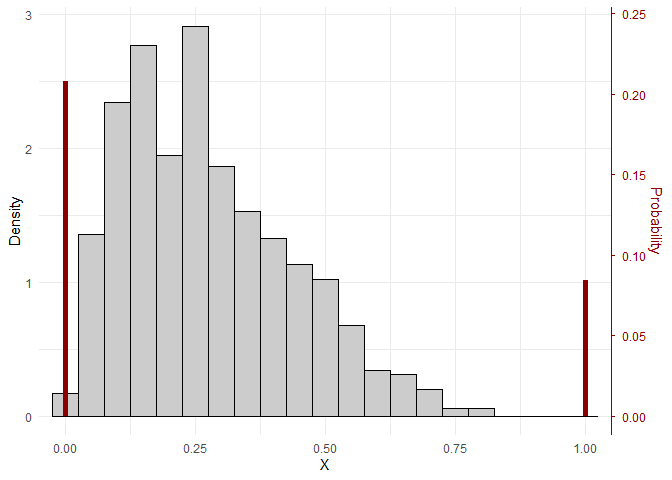
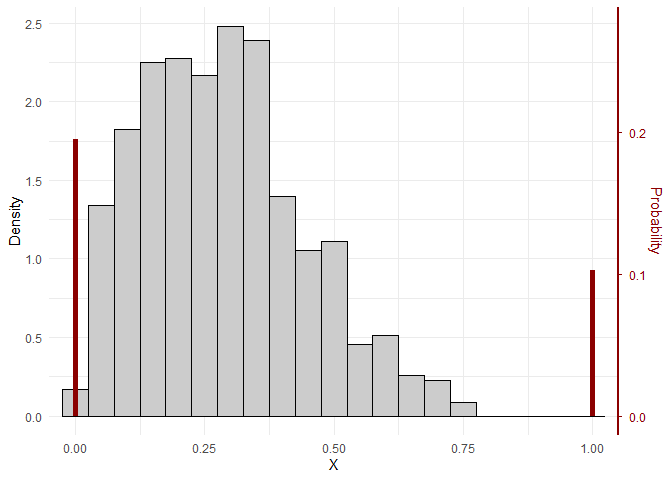
fix density values in graph

diff --git a/README.md b/README.md
@@ -7,10 +7,10 @@
 
 <!-- badges: end -->
 
-The zoabeta package is a very simple implementation of the
-zero-one-augmented beta distribution that supports values on the unit
-interval (e.g. proportions or probabilities) that might include zero or
-one values, in contrast to the standard beta distribution which does not
+The zoabeta package is a simple implementation of the zero-one-augmented
+beta distribution that supports values on the unit interval
+(e.g. proportions or probabilities) that might include zero or one
+values, in contrast to the standard beta distribution which does not
 support zero or one values. The package provides density, probability,
 quantile and random variate functions analogous to the standard beta
 distribution functions in the R `stats` package.
@@ -48,7 +48,7 @@ to the simulated data.
 
 fit_zoabeta(x)
 #>   shape1   shape2    pzero     pone 
-#> 1.879932 4.972533 0.208000 0.084000
+#> 2.073514 5.217462 0.195000 0.103000
 ```
 
 Display the simulated values using the `draw_zoabeta` function.
